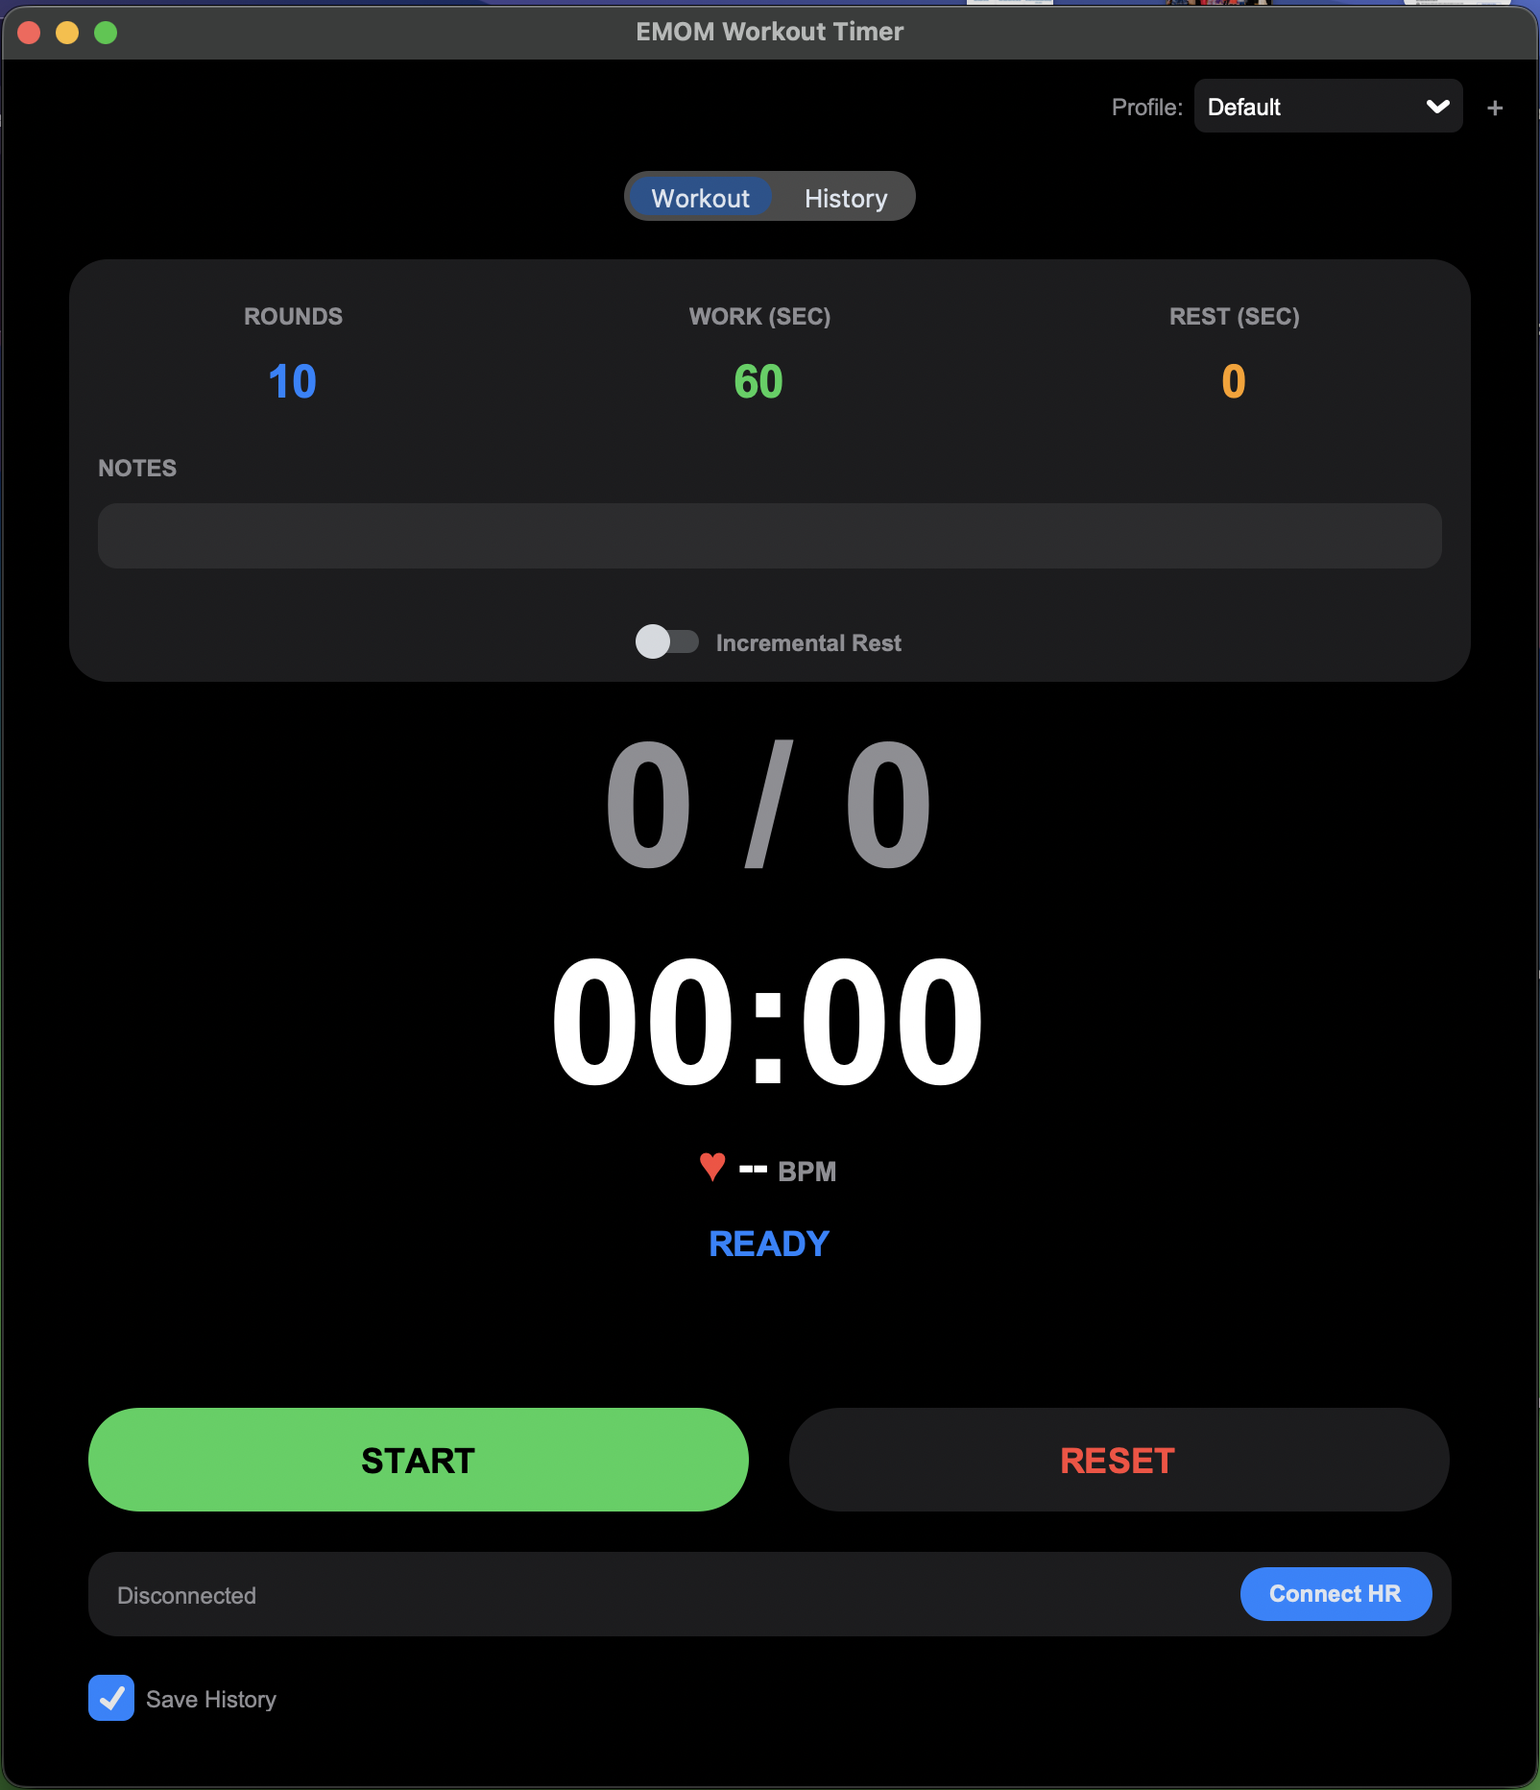
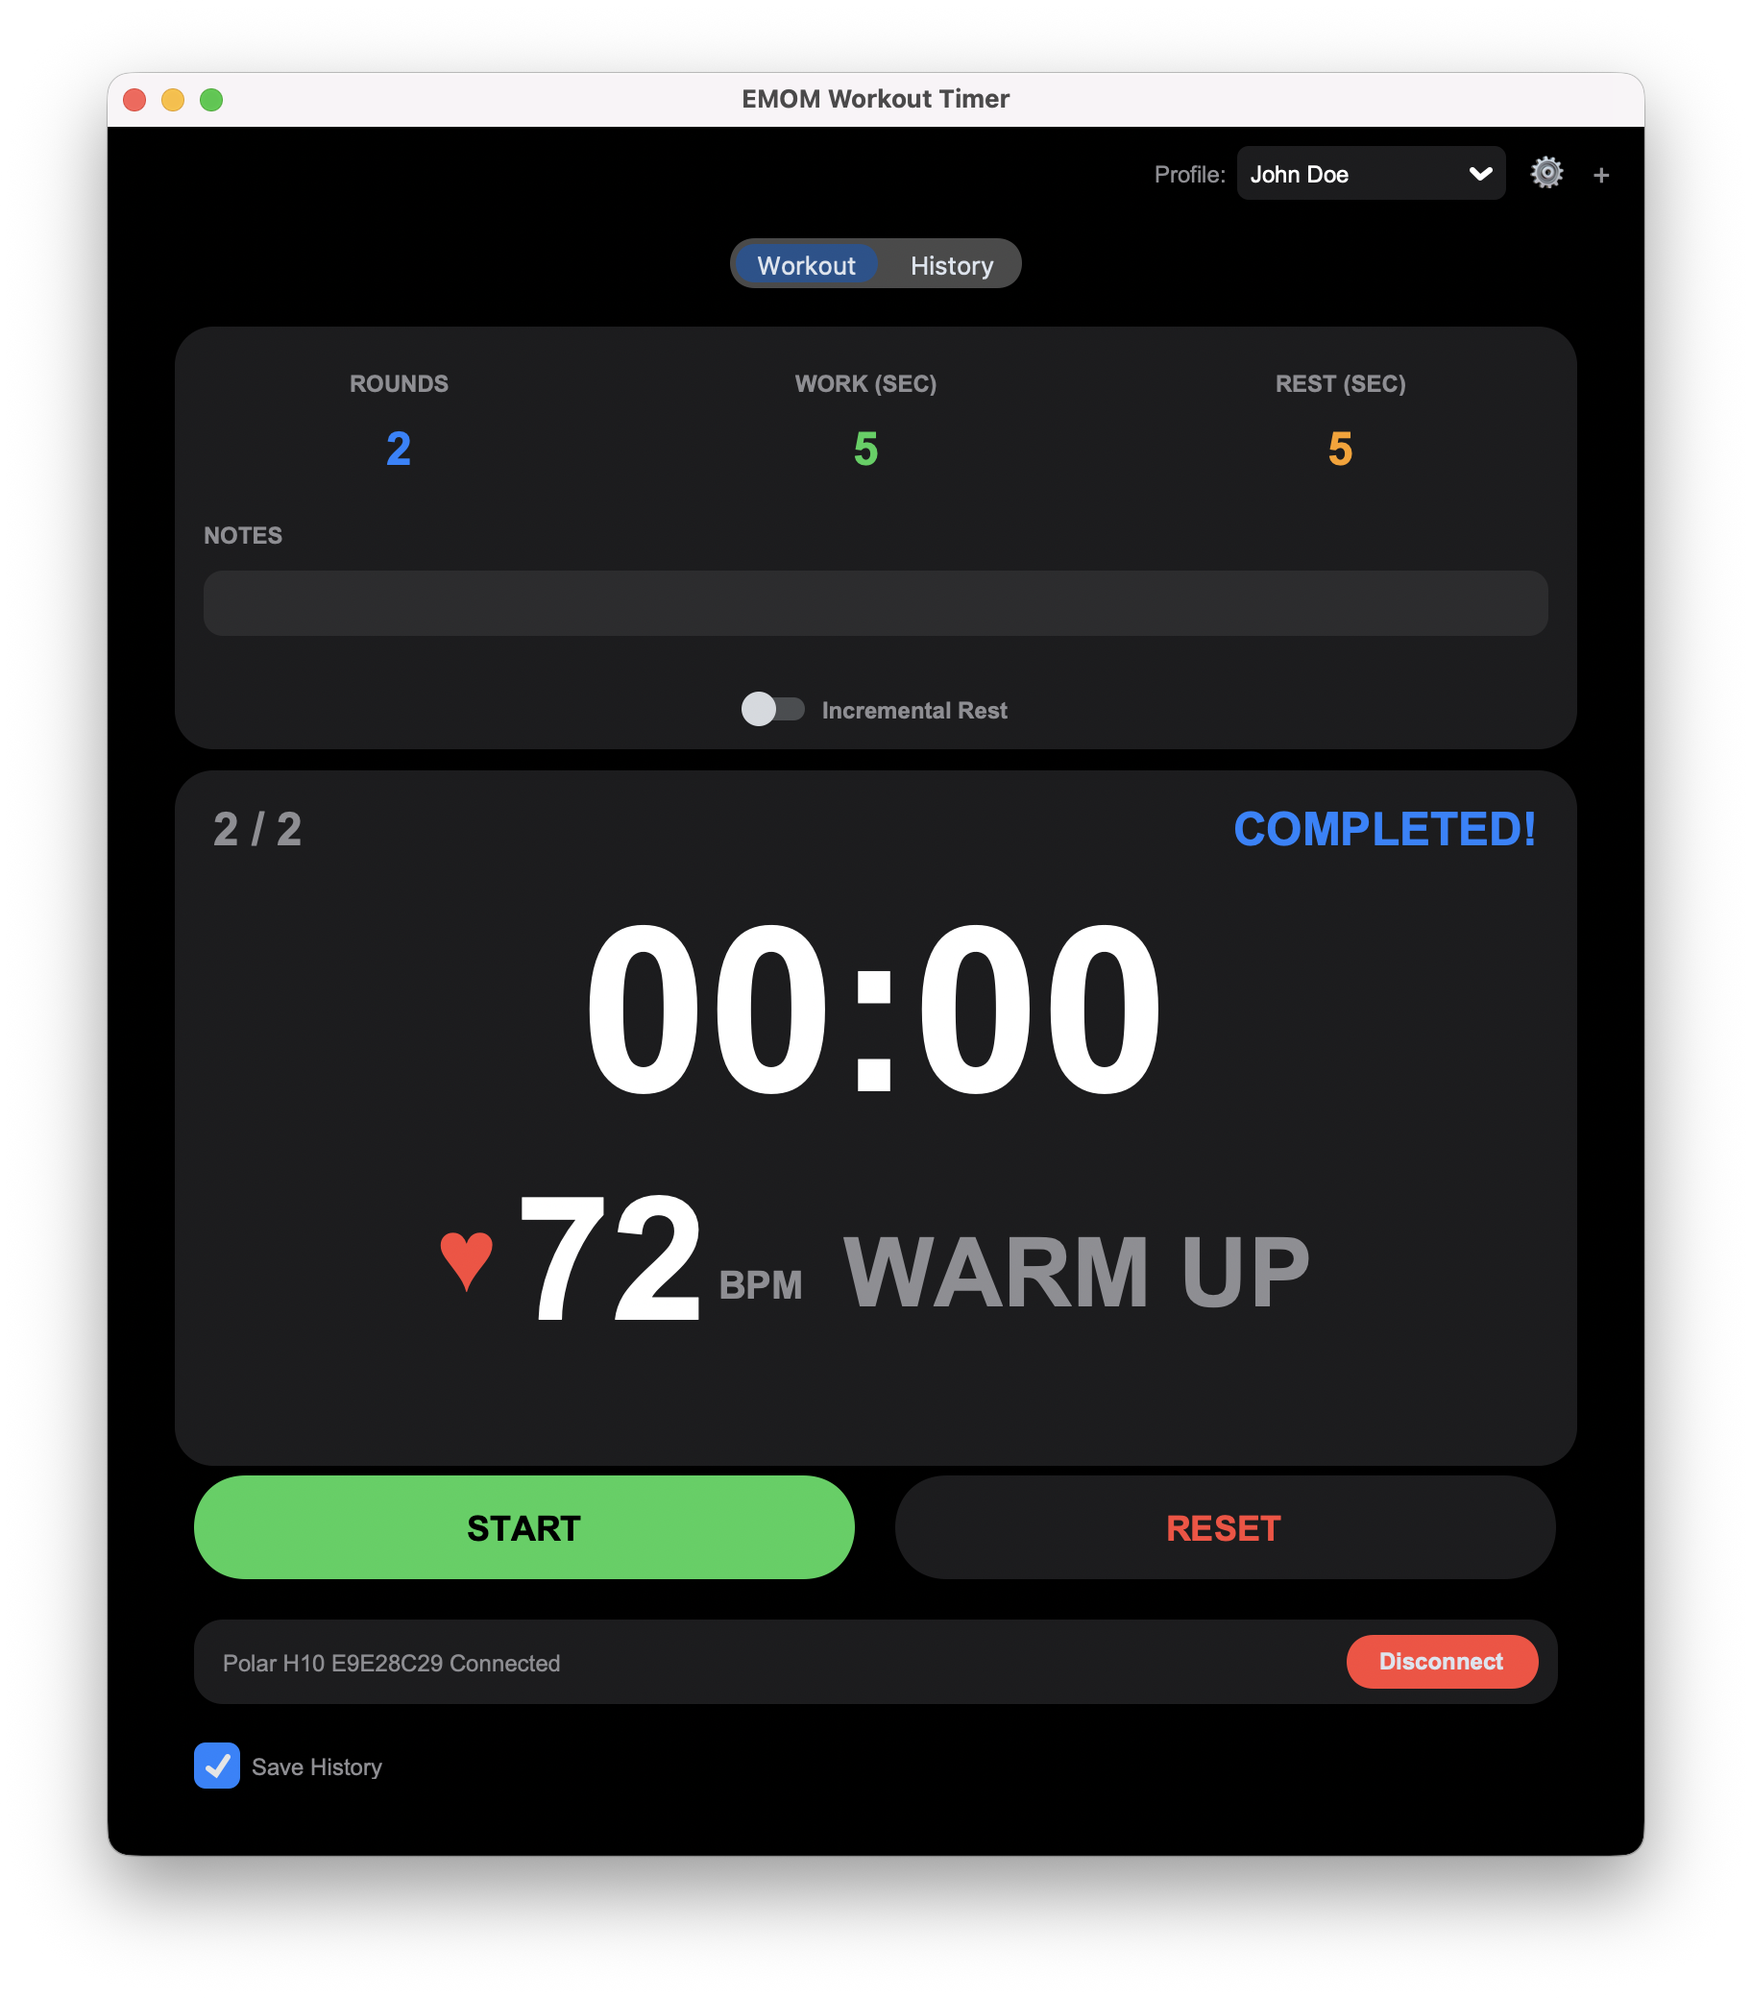
feat: Implement Max HR and zone tracking with a redesigned monitor UI, profile settings, and updated documentation.

diff --git a/main.py b/main.py
@@ -85,6 +85,8 @@ class EMOMApp(ctk.CTk):
         # --- Heart Rate Variables ---
         self.hr_monitor = HeartRateMonitor(on_hr_update=self.on_hr_update, on_status_change=self.on_hr_status_change)
         self.current_hr = ctk.StringVar(value="--")
+        self.hr_zone = ctk.StringVar(value="")
+        self.current_max_hr = None
         self.hr_status = ctk.StringVar(value="Disconnected")
         self.is_hr_connecting = False
         
@@ -113,6 +115,11 @@ class EMOMApp(ctk.CTk):
     def change_profile(self, choice):
         print(f"Profile changed to: {choice}")
         storage.update_last_used_profile(choice)
+        
+        # Cache Max HR
+        details = storage.get_profile_details(choice)
+        self.current_max_hr = details.get("max_hr")
+        
         if self.history_frame:
             self.history_frame.refresh(choice)
 
@@ -156,6 +163,10 @@ class EMOMApp(ctk.CTk):
                                               text_color=TEXT_COLOR, font=(FONT_FAMILY, 12))
         self.profile_menu.pack(side="left", padx=(0, 5))
         
+        btn_settings = ctk.CTkButton(self.profile_ui, text="⚙", command=self.open_profile_settings, width=24, height=24,
+                                        fg_color="transparent", hover_color="#3A3A3C", text_color=TEXT_SECONDARY, font=(FONT_FAMILY, 14))
+        btn_settings.pack(side="left", padx=(0, 0))
+
         btn_add_profile = ctk.CTkButton(self.profile_ui, text="+", command=self.add_profile, width=24, height=24,
                                         fg_color="transparent", hover_color="#3A3A3C", text_color=TEXT_SECONDARY, font=(FONT_FAMILY, 16))
         btn_add_profile.pack(side="left")
@@ -243,35 +254,38 @@ class EMOMApp(ctk.CTk):
         self.entry_inc_start = ctk.CTkEntry(self.inc_frame, textvariable=self.inc_start_var, width=50, justify="center")
         self.entry_inc_start.grid(row=1, column=2)
         
-        # 2. Timer Display (Center Stage) -> Row 1
-        self.display_frame = ctk.CTkFrame(workout_tab, fg_color="transparent")
+        # 2. Timer Display (Monitor Card) -> Row 1
+        self.display_frame = ctk.CTkFrame(workout_tab, fg_color=CARD_COLOR, corner_radius=CORNER_RADIUS)
         self.display_frame.grid(row=1, column=0, padx=10, pady=(5, 5), sticky="nsew")
         self.display_frame.grid_columnconfigure(0, weight=1)
+        self.display_frame.grid_columnconfigure(1, weight=1)
         
-        # Round Indicator
-        self.lbl_current_round = ctk.CTkLabel(self.display_frame, text="0 / 0", font=(FONT_FAMILY, 90, "bold"), text_color=TEXT_SECONDARY)
-        self.lbl_current_round.grid(row=0, column=0, sticky="s", pady=(0, 10))
+        # Row 0: Header (Rounds | Status)
+        self.lbl_current_round = ctk.CTkLabel(self.display_frame, text="ROUND 0 / 0", font=(FONT_FAMILY, 24, "bold"), text_color=TEXT_SECONDARY)
+        self.lbl_current_round.grid(row=0, column=0, sticky="w", padx=20, pady=(15, 0))
 
-        # Main Timer
-        self.lbl_main_timer = ctk.CTkLabel(self.display_frame, text="00:00", font=(FONT_FAMILY, 90, "bold"), text_color=TEXT_COLOR)
-        self.lbl_main_timer.grid(row=1, column=0)
+        self.lbl_status = ctk.CTkLabel(self.display_frame, text="READY", font=(FONT_FAMILY, 24, "bold"), text_color=ACCENT_BLUE)
+        self.lbl_status.grid(row=0, column=1, sticky="e", padx=20, pady=(15, 0))
 
-        # Heart Rate Display (Embedded in Timer Area)
+        # Row 1: Main Timer
+        self.lbl_main_timer = ctk.CTkLabel(self.display_frame, text="00:00", font=(FONT_FAMILY, 120, "bold"), text_color=TEXT_COLOR)
+        self.lbl_main_timer.grid(row=1, column=0, columnspan=2, pady=(10, 10))
+
+        # Row 2: Heart Rate Display
         self.hr_frame = ctk.CTkFrame(self.display_frame, fg_color="transparent")
-        self.hr_frame.grid(row=2, column=0, sticky="n", pady=(5, 0))
+        self.hr_frame.grid(row=2, column=0, columnspan=2, sticky="n", pady=(0, 20))
         
-        self.lbl_hr_icon = ctk.CTkLabel(self.hr_frame, text="♥", font=(FONT_FAMILY, 24), text_color=ACCENT_RED)
-        self.lbl_hr_icon.pack(side="left", padx=(0, 5))
+        self.lbl_hr_icon = ctk.CTkLabel(self.hr_frame, text="♥", font=(FONT_FAMILY, 50), text_color=ACCENT_RED)
+        self.lbl_hr_icon.pack(side="left", padx=(0, 10))
         
-        self.lbl_hr_value = ctk.CTkLabel(self.hr_frame, textvariable=self.current_hr, font=(FONT_FAMILY, 24, "bold"), text_color=TEXT_COLOR)
+        self.lbl_hr_value = ctk.CTkLabel(self.hr_frame, textvariable=self.current_hr, font=(FONT_FAMILY, 90, "bold"), text_color=TEXT_COLOR)
         self.lbl_hr_value.pack(side="left")
         
-        self.lbl_hr_unit = ctk.CTkLabel(self.hr_frame, text="BPM", font=(FONT_FAMILY, 14, "bold"), text_color=TEXT_SECONDARY)
-        self.lbl_hr_unit.pack(side="left", padx=(5, 0), pady=(8, 0))
-
-        # Status
-        self.lbl_status = ctk.CTkLabel(self.display_frame, text="READY", font=(FONT_FAMILY, 18, "bold"), text_color=ACCENT_BLUE)
-        self.lbl_status.grid(row=3, column=0, sticky="n", pady=(10, 0))
+        self.lbl_hr_unit = ctk.CTkLabel(self.hr_frame, text="BPM", font=(FONT_FAMILY, 20, "bold"), text_color=TEXT_SECONDARY)
+        self.lbl_hr_unit.pack(side="left", padx=(5, 0), pady=(30, 0))
+        
+        self.lbl_hr_zone = ctk.CTkLabel(self.hr_frame, textvariable=self.hr_zone, font=(FONT_FAMILY, 50, "bold"), text_color=ACCENT_BLUE)
+        self.lbl_hr_zone.pack(side="left", padx=(20, 0), pady=(15, 0))
         
         # 3. Controls (Bottom) -> Row 2
         self.button_frame = ctk.CTkFrame(workout_tab, fg_color="transparent")
@@ -323,6 +337,57 @@ class EMOMApp(ctk.CTk):
         self.history_frame = HistoryFrame(history_tab) # Embed new frame
         self.history_frame.grid(row=0, column=0, sticky="nsew")
 
+    def open_profile_settings(self):
+        current_profile = self.profile_var.get()
+        details = storage.get_profile_details(current_profile)
+        current_max_hr = details.get("max_hr", "")
+        
+        # Create Dialog
+        dialog = ctk.CTkToplevel(self)
+        dialog.title("Profile Settings")
+        dialog.geometry("300x200")
+        dialog.resizable(False, False)
+        
+        # Make modal-like
+        dialog.transient(self)
+        dialog.grab_set()
+        
+        # Center Content
+        dialog.grid_columnconfigure(0, weight=1)
+        
+        lbl_title = ctk.CTkLabel(dialog, text=f"Edit {current_profile}", font=(FONT_FAMILY, 16, "bold"))
+        lbl_title.pack(pady=(20, 10))
+        
+        # Max HR Input
+        frm_hr = ctk.CTkFrame(dialog, fg_color="transparent")
+        frm_hr.pack(pady=10)
+        
+        ctk.CTkLabel(frm_hr, text="Max Heart Rate:", font=(FONT_FAMILY, 12)).pack(side="left", padx=5)
+        entry_max_hr = ctk.CTkEntry(frm_hr, width=60, justify="center")
+        entry_max_hr.pack(side="left", padx=5)
+        
+        if current_max_hr:
+            entry_max_hr.insert(0, str(current_max_hr))
+            
+        def save():
+            try:
+                val = entry_max_hr.get().strip()
+                if val:
+                    max_hr = int(val)
+                else:
+                    max_hr = None
+                    
+                storage.update_profile(current_profile, max_hr=max_hr)
+                self.current_max_hr = max_hr # Update Cache
+                dialog.destroy()
+                print(f"Saved Settings for {current_profile}")
+            except ValueError:
+                print("Invalid Max HR input")
+                # Could add error label here
+        
+        btn_save = ctk.CTkButton(dialog, text="Save", command=save, fg_color=ACCENT_BLUE, width=100)
+        btn_save.pack(pady=20)
+
     def toggle_inc_options(self):
         if self.incremental_rest_var.get():
             self.inc_frame.grid()
@@ -334,18 +399,61 @@ class EMOMApp(ctk.CTk):
             self.hr_monitor.stop()
             self.btn_connect_hr.configure(text="Connect HR", fg_color=ACCENT_BLUE)
             self.current_hr.set("--")
+            self.hr_zone.set("")
         else:
             self.hr_monitor.start()
             self.btn_connect_hr.configure(text="Disconnect", fg_color=ACCENT_RED)
             
     def on_hr_update(self, valid_bpm):
         self.after(0, lambda: self.current_hr.set(str(valid_bpm)))
+        
+        # Zone Calc
+        if self.current_max_hr:
+            try:
+                bpm = int(valid_bpm)
+                max_hr = int(self.current_max_hr)
+                pct = (bpm / max_hr) * 100
+                
+                zone = ""
+                color = TEXT_SECONDARY
+                
+                if pct < 50:
+                    zone = "WARM UP"
+                    color = TEXT_SECONDARY
+                elif 50 <= pct < 60:
+                    zone = "ZONE 1"
+                    color = ACCENT_BLUE 
+                elif 60 <= pct < 70:
+                    zone = "ZONE 2"
+                    color = ACCENT_GREEN
+                elif 70 <= pct < 80:
+                    zone = "ZONE 3"
+                    color = ACCENT_YELLOW
+                elif 80 <= pct < 90:
+                    zone = "ZONE 4"
+                    color = ACCENT_ORANGE
+                elif pct >= 90:
+                    zone = "ZONE 5"
+                    color = ACCENT_RED
+                
+                print(f"[DEBUG] BPM:{bpm} Max:{max_hr} Pct:{pct:.1f}% Zone:{zone}")
+                self.after(0, lambda z=zone, c=color: self._update_zone_ui(z, c))
+            except Exception as e:
+                print(f"Error calcing zone: {e}")
+        else:
+             print(f"[DEBUG] No Max HR set (BPM: {valid_bpm})")
+             self.after(0, lambda: self._update_zone_ui("", TEXT_SECONDARY))
+
+    def _update_zone_ui(self, text, color):
+        self.hr_zone.set(text)
+        self.lbl_hr_zone.configure(text_color=color)
 
     def on_hr_status_change(self, status):
         self.after(0, lambda: self.hr_status.set(status))
         if status == "Disconnected":
              self.after(0, lambda: self.btn_connect_hr.configure(text="Connect HR", fg_color=ACCENT_BLUE))
              self.after(0, lambda: self.current_hr.set("--"))
+             self.after(0, lambda: self.hr_zone.set(""))
         elif status.endswith("Connected") and not status == "Disconnected":
              self.after(0, lambda: self.btn_connect_hr.configure(text="Disconnect", fg_color=ACCENT_RED))
 

diff --git a/storage.py b/storage.py
@@ -111,7 +111,7 @@ def load_profiles():
     sorted_profiles = sorted(list(profiles_data["profiles"].keys()))
     return sorted_profiles
 
-def add_profile(profile_name):
+def add_profile(profile_name, max_hr=None):
     _ensure_dir()
     
     # Load existing
@@ -128,13 +128,47 @@ def add_profile(profile_name):
         filename = f"{profile_name.lower().replace(' ', '_')}_workout_history.csv"
         data["profiles"][profile_name] = {
             "filename": filename,
-            "created_at": datetime.datetime.now().isoformat()
+            "created_at": datetime.datetime.now().isoformat(),
+            "max_hr": max_hr
         }
         
         with open(PROFILES_FILE, 'w') as f:
             json.dump(data, f, indent=4)
             
     return data["profiles"][profile_name]["filename"]
+
+def update_profile(profile_name, max_hr=None):
+    """Updates existing profile metadata."""
+    if not os.path.exists(PROFILES_FILE):
+        return
+        
+    try:
+        with open(PROFILES_FILE, 'r') as f:
+            data = json.load(f)
+            
+        if profile_name in data["profiles"]:
+            # Update fields if provided
+            if max_hr is not None:
+                data["profiles"][profile_name]["max_hr"] = max_hr
+                
+            with open(PROFILES_FILE, 'w') as f:
+                json.dump(data, f, indent=4)
+                print(f"Updated profile {profile_name}: max_hr={max_hr}")
+                
+    except Exception as e:
+        print(f"Error updating profile: {e}")
+
+def get_profile_details(profile_name):
+    """Returns dict of profile metadata or empty dict."""
+    if not os.path.exists(PROFILES_FILE):
+        return {}
+        
+    try:
+        with open(PROFILES_FILE, 'r') as f:
+            data = json.load(f)
+            return data.get("profiles", {}).get(profile_name, {})
+    except Exception:
+        return {}
 
 def get_last_used_profile():
     if os.path.exists(PROFILES_FILE):

diff --git a/test_max_hr.py b/test_max_hr.py
@@ -1,0 +1,33 @@
+import storage
+import json
+import os
+
+print("--- Testing Storage ---")
+
+# 1. Add Profile
+storage.add_profile("TestMaxHR")
+print("Added profile TestMaxHR")
+
+# 2. Update Max HR
+storage.update_profile("TestMaxHR", max_hr=185)
+print("Updated Max HR to 185")
+
+# 3. Verify via get_profile_details
+details = storage.get_profile_details("TestMaxHR")
+print(f"Retrieved Details: {details}")
+
+if details.get("max_hr") == 185:
+    print("SUCCESS: Max HR verified in memory.")
+else:
+    print("FAILURE: Max HR mismatch in memory.")
+
+# 4. Verify JSON file directly
+with open(storage.PROFILES_FILE, 'r') as f:
+    data = json.load(f)
+    saved_val = data["profiles"]["TestMaxHR"].get("max_hr")
+    print(f"Saved Value in JSON: {saved_val}")
+    
+    if saved_val == 185:
+        print("SUCCESS: Max HR verified in JSON file.")
+    else:
+        print("FAILURE: Max HR mismatch in JSON file.")

diff --git a/README.md b/README.md
@@ -28,8 +28,9 @@ A modern, python-based EMOM (Every Minute on the Minute) timer application built
 
 ### � User Profiles
 - **Multi-User Support**: Create separate profiles for different users (e.g., "Rohit", "Alice").
-- **Isolated History**: History is saved to individual CSV files (e.g., `rohit_workout_history.csv`) in your Documents folder.
-- **Easy Switching**: Switch profiles instantly from the main workout screen.
+- **Max Heart Rate**: Set your Max HR in profile settings to unlock zone tracking.
+- **Isolated History**: History is saved to individual CSV files in your Documents folder.
+- **Global Selector**: Always-visible profile switcher for quick access.
 
 ### 📈 Incremental Rest
 - **Dynamic Recovery**: Automatically increase your rest time as the workout gets harder.
@@ -46,11 +47,17 @@ A modern, python-based EMOM (Every Minute on the Minute) timer application built
 - Add custom **Notes** to any workout before starting or saving.
 - Notes are saved alongside performance data for future reference.
 
-### ❤ Heart Rate Monitoring
+### ❤ Heart Rate Intelligence
 - **Bluetooth Integration**: Connect compatible BLE heart rate monitors (e.g., Polar H10).
-- **Real-Time Tracking**: View your live heart rate (BPM) during workouts.
-- **Smart Connection**: Displays the specific name of your connected device.
+- **Zone Training**: Real-time display of your Training Zone (1-5) based on your Max HR.
+    - Color-coded feedback (Blue → Red) for instant intensity awareness.
+- **Smart Display**: Large, easy-to-read BPM and Zone indicators integrated into the main monitor.
 - **Status Indicators**: Visual feedback for connection states (Scanning, Connecting, Connected).
+
+### 🖥 Modern Experience
+- **Monitor Card Layout**: A concise, dashboard-style view grouping Timer, Rounds, and Heart Rate.
+- **Resizable Window**: Adjust the app window to fit your screen setup.
+- **Global Header**: Easy access to profiles and settings from anywhere in the app.
 
 ## Getting Started
 
